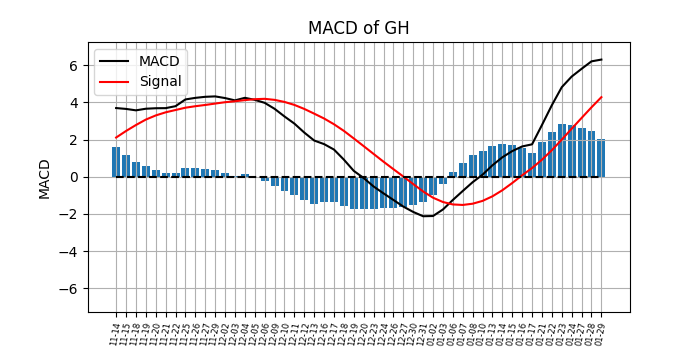
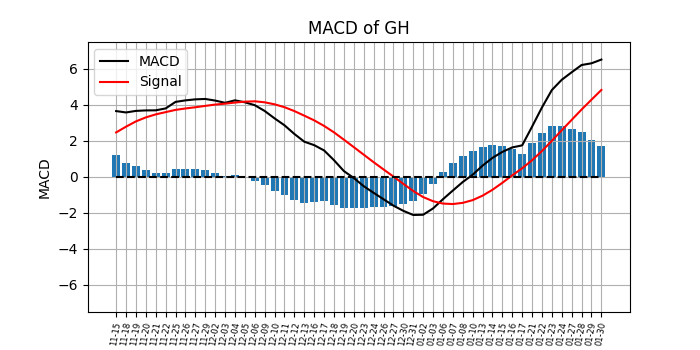
update plots

diff --git a/_posts/2025-01-30-VRTX.md b/_posts/2025-01-30-VRTX.md
@@ -1,9 +1,9 @@
 ---
 layout: post
-title: "LYFT"
-company: Lyft Inc.
-date: 2025-01-29 -0500
-categories: consumer
+title: "VRTX"
+company: Vertex Pharma Inc.
+date: 2025-01-30 -0500
+categories: biotech
 ---
 
 ### Most up to date figures for {{page.company}} ({{ page.title }}).
@@ -14,7 +14,7 @@ categories: consumer
 
 ### Transactions
 
-**Buy**: $20 on 1/22/25
+Buy/short:
 
 ### Thoughts
-(1/21/25) - **Buy**. Opportunity here as the 5 day MA is about to cross 20 day. In addition, MACD has upward momentum and the RSI is near median.
+(1/21/25) - **Miss**. Missed buy opportunity on 1/16 after MA double cross. Look for short opportunity soon.

diff --git a/_posts/2025-01-30-LYFT.md b/_posts/2025-01-30-LYFT.md
@@ -1,9 +1,9 @@
 ---
 layout: post
-title: "VRTX"
-company: Vertex Pharma Inc.
-date: 2025-01-29 -0500
-categories: biotech
+title: "LYFT"
+company: Lyft Inc.
+date: 2025-01-30 -0500
+categories: consumer
 ---
 
 ### Most up to date figures for {{page.company}} ({{ page.title }}).
@@ -14,7 +14,7 @@ categories: biotech
 
 ### Transactions
 
-Buy/short:
+**Buy**: $20 on 1/22/25
 
 ### Thoughts
-(1/21/25) - **Miss**. Missed buy opportunity on 1/16 after MA double cross. Look for short opportunity soon.
+(1/21/25) - **Buy**. Opportunity here as the 5 day MA is about to cross 20 day. In addition, MACD has upward momentum and the RSI is near median.

diff --git a/_posts/2025-01-30-KTOS.md b/_posts/2025-01-30-KTOS.md
@@ -2,7 +2,7 @@
 layout: post
 title: "KTOS"
 company: Kratos Defense & Security Solutions Inc.
-date: 2025-01-29 -0500
+date: 2025-01-30 -0500
 categories: defense
 ---
 

diff --git a/_posts/2025-01-30-GH.md b/_posts/2025-01-30-GH.md
@@ -2,7 +2,7 @@
 layout: post
 title: GH
 company: Guardiant Health
-date: 2025-01-29 -0500
+date: 2025-01-30 -0500
 categories: biotech
 ---
 
